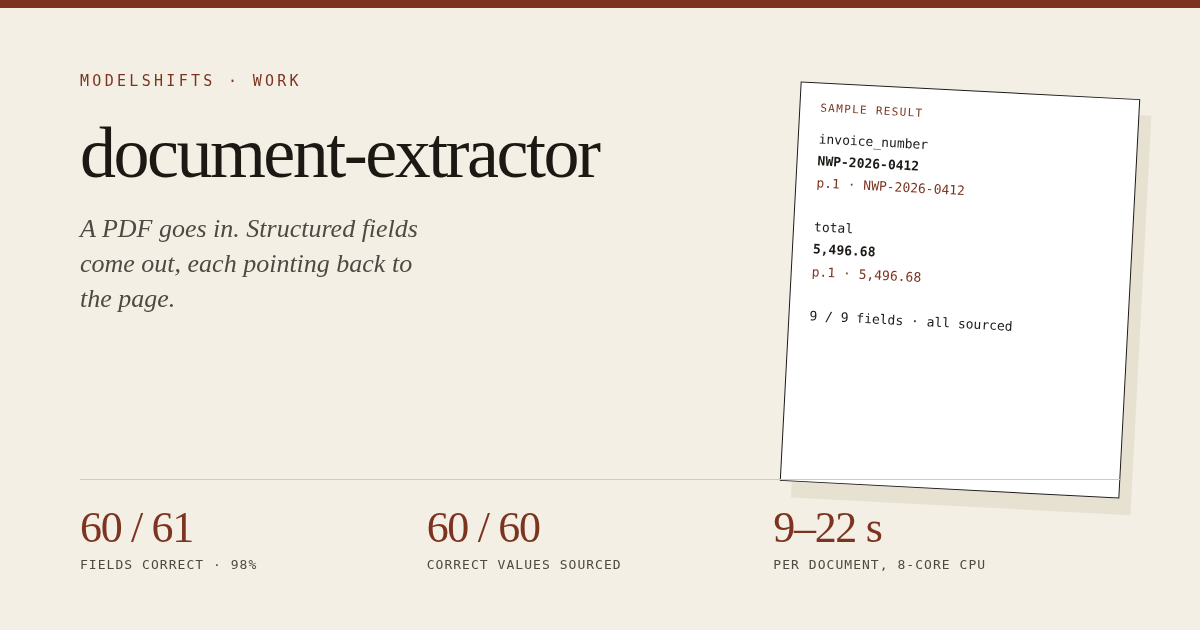
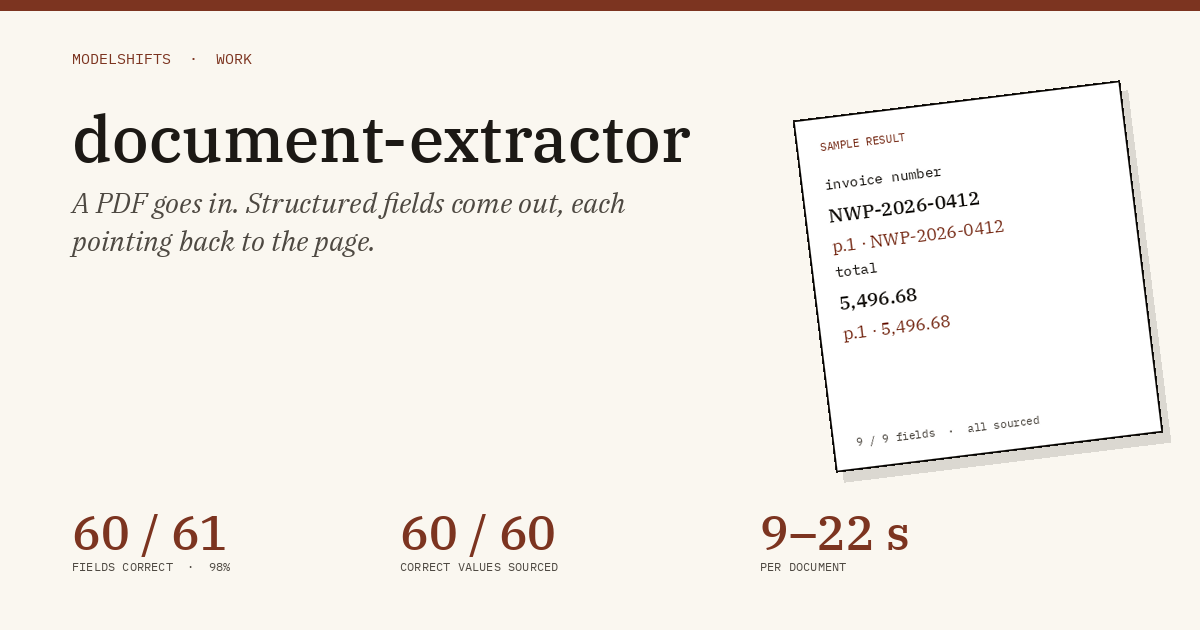
Drop the Notes section and test-condition wording.

diff --git a/README.md b/README.md
@@ -13,12 +13,12 @@
 </p>
 
 <p align="center">
-  <img src="assets/demo.gif" alt="Web demo on a synthetic invoice: nine fields are extracted (invoice number NWP-2026-0412, total 5,496.68 and seven others), each with a numbered source box on the page, and the question “When is payment due?” is answered with a cited passage." width="100%">
+  <img src="assets/demo.gif" alt="Web demo on an invoice: nine fields are extracted (invoice number NWP-2026-0412, total 5,496.68 and seven others), each with a numbered source box on the page, and the question “When is payment due?” is answered with a cited passage." width="100%">
 </p>
-<p align="center"><sub>Web demo on a synthetic invoice (<a href="assets/demo.mp4">MP4</a>). The recording replays results computed by Qwen2.5-1.5B-Instruct on CPU.</sub></p>
+<p align="center"><sub>Web demo on an invoice (<a href="assets/demo.mp4">MP4</a>). The recording replays results computed by Qwen2.5-1.5B-Instruct.</sub></p>
 
 <p align="center">
-  <img src="assets/results.svg" alt="Evaluation highlights: 60 of 61 fields correct (98%); all 60 correct values sourced; 9 to 22 seconds per document on an 8-core CPU." width="100%">
+  <img src="assets/results.svg" alt="Evaluation highlights: 60 of 61 fields correct (98%); all 60 correct values sourced; 9 to 22 seconds per document." width="100%">
 </p>
 
 ## The problem
@@ -47,15 +47,15 @@ Ask a question (“When is payment due?”) and a retriever — bge-m3, or BM25 
 One of the samples, before and after:
 
 <p align="center">
-  <img src="assets/before-after.png" alt="Left: synthetic tax invoice invoice-northwind-classic.pdf, from Northwind Parts Pte. Ltd. to Example Logistics Pte. Ltd., invoice NWP-2026-0412, total due SGD 5,496.68. Right: the nine extracted fields, all correct, each sourced to matching text on page 1 — invoice_number NWP-2026-0412, invoice_date 2026-03-14 (from “14 March 2026”), due_date 2026-04-13, seller and buyer names, currency SGD, subtotal 5,042.83, tax 453.85, total 5,496.68." width="100%">
+  <img src="assets/before-after.png" alt="Left: tax invoice invoice-northwind-classic.pdf, from Northwind Parts Pte. Ltd. to Example Logistics Pte. Ltd., invoice NWP-2026-0412, total due SGD 5,496.68. Right: the nine extracted fields, all correct, each sourced to matching text on page 1 — invoice_number NWP-2026-0412, invoice_date 2026-03-14 (from “14 March 2026”), due_date 2026-04-13, seller and buyer names, currency SGD, subtotal 5,042.83, tax 453.85, total 5,496.68." width="100%">
 </p>
-<p align="center"><sub>Synthetic invoice <code>invoice-northwind-classic.pdf</code> beside the extract. All nine fields correct, all nine sourced. Measured by <a href="scripts/evaluate.py"><code>scripts/evaluate.py</code></a>.</sub></p>
+<p align="center"><sub><code>invoice-northwind-classic.pdf</code> beside the extract. All nine fields correct, all nine sourced. <a href="scripts/evaluate.py"><code>scripts/evaluate.py</code></a>.</sub></p>
 
 Think of each field as a claim, and the bounding box as the exhibit attached to it.
 
 ## Results
 
-On seven synthetic PDFs — four invoice layouts, two contracts, and one image-only scan — the Hugging Face backend with Qwen2.5-1.5B-Instruct got **60 of 61 fields correct (98%)**. Every correct value also carried a source box whose text matches the value (**60/60**).
+On seven PDFs — four invoice layouts, two contracts, and one image-only scan — the Hugging Face backend with Qwen2.5-1.5B-Instruct got **60 of 61 fields correct (98%)**. Every correct value also carried a source box whose text matches the value (**60/60**).
 
 The one miss is an OCR slip on the scanned invoice: `buyer_name` came back as `Northwind Parts Pte., Ltd.` (an extra comma) instead of `Northwind Parts Pte. Ltd.`
 
@@ -70,9 +70,9 @@ The one miss is an OCR slip on the scanned invoice: `buyer_name` came back as `N
 | invoice-placeholder-two-page.pdf | 9/9 | 9/9 | 13.6 | — |
 | **All** | **60/61 (98%)** | **60/60** | **9.0–22.1** | |
 
-**Methodology.** Seven synthetic PDFs (four invoice layouts, two contracts, one image-only scan), 61 fields in total. All names and figures are fictional. A field counts as correct when the typed value matches the ground truth in [`samples/*.truth.json`](samples/) (strings compared case-insensitively, extra spaces and trailing punctuation ignored; numbers within 0.005). “Sourced” counts correct values that also carry a source box whose text matches the value. Run with [`python scripts/evaluate.py`](scripts/evaluate.py). Hugging Face backend, Qwen2.5-1.5B-Instruct, Florence-2 for the scanned page, 8-core CPU (15 GB RAM, no GPU), 12 November 2026. Wall-clock for all seven samples was 96 seconds, including model load. Per-document times were 9.0–22.1 seconds. The raw table is in [`docs/eval.md`](docs/eval.md).
+**Methodology.** Seven PDFs (four invoice layouts, two contracts, one image-only scan), 61 fields in total. A field counts as correct when the typed value matches the ground truth in [`samples/*.truth.json`](samples/) (strings compared case-insensitively, extra spaces and trailing punctuation ignored; numbers within 0.005). “Sourced” counts correct values that also carry a source box whose text matches the value. [`python scripts/evaluate.py`](scripts/evaluate.py). Hugging Face backend, Qwen2.5-1.5B-Instruct, Florence-2 for the scanned page, 12 November 2026. Wall-clock for all seven samples was 96 seconds, including model load. Per-document times were 9.0–22.1 seconds. The raw table is in [`docs/eval.md`](docs/eval.md).
 
-On the same machine, the API backend against a local llama.cpp server (Qwen2.5-1.5B-Instruct, Q4_K_M) got 52 of 61 fields correct: all 52 fields on the six text-layer PDFs, in 3.9–12.1 seconds each. The scanned invoice is scored 0/9 there, because that backend has no OCR unless a vision model is configured.
+The API backend against a local llama.cpp server (Qwen2.5-1.5B-Instruct, Q4_K_M) got 52 of 61 fields correct: all 52 fields on the six text-layer PDFs, in 3.9–12.1 seconds each. The scanned invoice is scored 0/9 there, because that backend has no OCR unless a vision model is configured.
 
 ## Why it matters
 
@@ -110,7 +110,7 @@ document-extractor serve
 
 A schema is a YAML file that lists fields and their types (`string`, `date`, `number`, `integer`). See [`schemas/invoice.yaml`](schemas/invoice.yaml) and [`schemas/contract.yaml`](schemas/contract.yaml). Dates come back as `YYYY-MM-DD` and amounts as numbers.
 
-`samples/` holds seven synthetic PDFs (four invoice layouts, two contracts, one image-only scan) with a ground-truth file for each. All names and figures in them are fictional. Tests use a mocked model and need no downloads: `pip install -e ".[dev]" && pytest`.
+`samples/` holds seven PDFs (four invoice layouts, two contracts, one image-only scan) with a ground-truth file for each. Tests use a mocked model and need no downloads: `pip install -e ".[dev]" && pytest`.
 
 ## Backends
 
@@ -147,16 +147,7 @@ python -m llama_cpp.server --model models/qwen2.5-1.5b-instruct-q4_k_m.gguf --n_
 # then: MS_API_BASE=http://127.0.0.1:8001/v1  MS_API_KEY=local  MS_MODEL=qwen2.5-1.5b-instruct-q4_k_m
 ```
 
-The 7B default has not been measured in the evaluation above.
-
 </details>
-
-## Notes
-
-- Measured on seven synthetic samples with simple layouts, not on real-world documents.
-- The figures above are for Qwen2.5-1.5B-Instruct on an 8-core CPU. The 7B default is intended for a GPU and has not been measured here.
-- API-backend OCR through `MS_VISION_MODEL` is implemented and has only been tested with a mocked model.
-- If a value is printed more than once, the source box is the copy closest to a matching label, which is not always the one the model read. Numeric dates such as `03.02.2026` are read day-first.
 
 ## Roadmap
 
